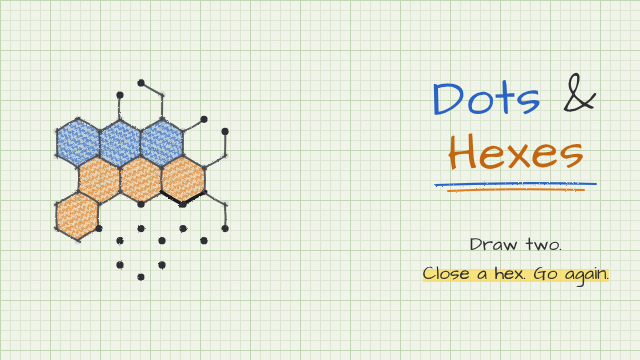
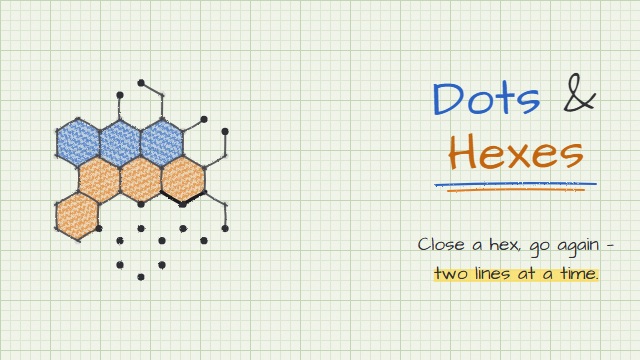
.

Changed region(s): [[0.6562, 0.7333, 0.9688, 0.7944], [0.6562, 0.6417, 0.9375, 0.7028], [0.8438, 0.3972, 0.875, 0.4278]]

diff --git a/mockups/paper-pencil/home.html b/mockups/paper-pencil/home.html
@@ -28,7 +28,7 @@
 
 	<h1 class="title"><span class="p1">Dots</span> &amp; <span class="p2">Hexes</span></h1>
 	<svg class="underline" viewBox="0 0 100 12" preserveAspectRatio="none" aria-hidden="true"><use href="#underline2" width="100" height="12" /></svg>
-	<p class="tagline">Draw two. <span class="hl">Close a hex. Go again.</span></p>
+	<p class="tagline">Close a hex, go again — <span class="hl">two lines at a time.</span></p>
 
 	<ul class="rules">
 		<li><svg class="bullet p1" aria-hidden="true"><use href="#bullet" /></svg><span>Take turns <span class="hl">tapping two dots</span> two steps apart. Both lines between them get drawn.</span></li>

diff --git a/src/Home.svelte b/src/Home.svelte
@@ -15,7 +15,7 @@
 {#if ss.home}
 	<div class="home ga11 nohi" in:fade={SCREEN_IN} out:fade={SCREEN_OUT}>
 		<Title spacer />
-		<div class="tagline">Draw two. <span class="hl">Close a hex. Go again.</span></div>
+		<div class="tagline">Close a hex, go again — <span class="hl">two lines at a time.</span></div>
 		{#snippet bullet(text, i)}
 			<div class="bullet-item">
 				<svg class="bullet" class:odd={i % 2} viewBox="0 0 12 12" aria-hidden="true">
@@ -53,7 +53,7 @@
 	.tagline {
 		justify-self: center;
 		margin-top: 16px;
-		font-size: 21px;
+		font-size: 19px;
 	}
 
 	.bullets {

diff --git a/itch/Cover.html b/itch/Cover.html
@@ -118,8 +118,8 @@
 
 			const tagline = document.querySelector('.tagline');
 			tagline.innerHTML = L.stacked
-				? 'Draw two.<br><span class="hl">Close a hex. Go again.</span>'
-				: 'Draw two. <span class="hl">Close a hex. Go again.</span>';
+				? 'Close a hex, go again —<br><span class="hl">two lines at a time.</span>'
+				: 'Close a hex, go again — <span class="hl">two lines at a time.</span>';
 			Object.assign(tagline.style, {
 				left: L.titleX + 'px',
 				top: L.taglineTop + 'px',

diff --git a/CLAUDE.md b/CLAUDE.md
@@ -1,6 +1,6 @@
 # Dots and Hexes
 
-_Draw two. Close a hex. Go again._ (working tagline)
+_Close a hex, go again — two lines at a time._ (working tagline)
 
 Two-player dots-and-boxes on hexes; every move draws two lines. Prototyped as a single HTML artifact in claude.ai,
 now a SvelteKit app with Triangula's structure and flow, but its own look: paper and pencil, like the classic

diff --git a/README.md b/README.md
@@ -1,6 +1,6 @@
 # Dots and Hexes
 
-_Draw two. Close a hex. Go again._ (working tagline)
+_Close a hex, go again — two lines at a time._ (working tagline)
 
 Dots and boxes on a hex board: every move draws two connected lines at once.
 
